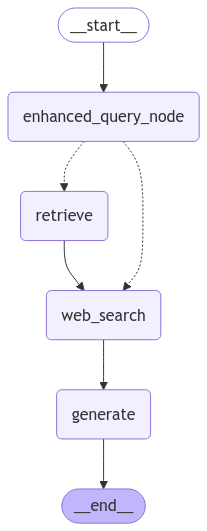
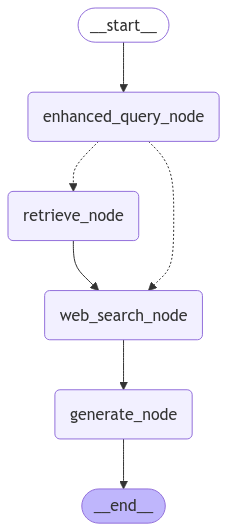
refactor(graph): rename query constants for clarity and update node definitions

diff --git a/app/graph/graph.py b/app/graph/graph.py
@@ -1,13 +1,13 @@
 import sqlite3
 from dotenv import load_dotenv, find_dotenv
-from langgraph.graph import END, StateGraph
+from langgraph.graph import END, START, StateGraph
 from langgraph.checkpoint.sqlite import SqliteSaver
 from app.graph.state import GraphState
 from app.graph.consts import (
-    ENHANCED_QUERY,
-    RETRIEVE,
-    WEB_SEARCH,
-    GENERATE,
+    ENHANCED_QUERY_NODE,
+    RETRIEVE_NODE,
+    WEB_SEARCH_NODE,
+    GENERATE_NODE,
 )
 from app.graph.nodes import (
     generate_enhanced_query_node,
@@ -32,40 +32,34 @@ def route_question(state: GraphState) -> str:
         {"question": state.enhanced_query, "chat_history": state.chat_history}
     )
     if source.datasource == "web_search":
-        return WEB_SEARCH
+        return WEB_SEARCH_NODE
     else:
-        return RETRIEVE
+        return RETRIEVE_NODE
 
 
 # Create the workflow without the SQLite connection
 workflow = StateGraph(GraphState)
 
 # Node Definition
-workflow.add_node(ENHANCED_QUERY, generate_enhanced_query_node)
-workflow.add_node(RETRIEVE, retrieve_documents_node)
-workflow.add_node(WEB_SEARCH, web_search_node)
-workflow.add_node(GENERATE, generate_node)
+workflow.add_node(ENHANCED_QUERY_NODE, generate_enhanced_query_node)
+workflow.add_node(RETRIEVE_NODE, retrieve_documents_node)
+workflow.add_node(WEB_SEARCH_NODE, web_search_node)
+workflow.add_node(GENERATE_NODE, generate_node)
 
 # Graph flow
-workflow.set_entry_point(ENHANCED_QUERY)
+workflow.set_entry_point(ENHANCED_QUERY_NODE)
 workflow.add_conditional_edges(
-    ENHANCED_QUERY,
+    ENHANCED_QUERY_NODE,
     route_question,
-    path_map={WEB_SEARCH: WEB_SEARCH, RETRIEVE: RETRIEVE},
+    path_map={WEB_SEARCH_NODE: WEB_SEARCH_NODE, RETRIEVE_NODE: RETRIEVE_NODE},
 )
-workflow.add_edge(RETRIEVE, WEB_SEARCH)
-workflow.add_edge(WEB_SEARCH, GENERATE)
-workflow.add_edge(GENERATE, END)
+workflow.add_edge(RETRIEVE_NODE, WEB_SEARCH_NODE)
+workflow.add_edge(WEB_SEARCH_NODE, GENERATE_NODE)
+workflow.add_edge(GENERATE_NODE, END)
 
 
-# Create a function to get a new graph instance with its own SQLite connection
-def get_graph_instance():
-    conn = sqlite3.connect("checkpoints.sqlite", check_same_thread=False)
-    memory = SqliteSaver(conn)
-    memory.setup()
-    graph = workflow.compile(checkpointer=memory)
-    return graph
-
-
-graph = get_graph_instance()
+conn = sqlite3.connect("checkpoints.sqlite", check_same_thread=False)
+memory = SqliteSaver(conn)
+memory.setup()
+graph = workflow.compile(checkpointer=memory)
 save_graph_visualization(graph)

diff --git a/app/graph/state.py b/app/graph/state.py
@@ -1,5 +1,5 @@
 import operator
-from typing import Any, List, Annotated, Sequence, Union
+from typing import Any, List, Annotated, Sequence, Union, Dict
 
 from langchain_core.messages import HumanMessage, AIMessage
 from pydantic import BaseModel, Field
@@ -14,6 +14,7 @@ class GraphState(BaseModel):
         documents: list of documents
         chat_history: list of chat messages
         generation: response to the question
+        execution_times: Dictionary to store execution times of each node.
     """
 
     question: str = Field(description="Question to be answered")
@@ -23,3 +24,4 @@ class GraphState(BaseModel):
         Field(default_factory=list)
     )
     generation: str = Field(default="")
+    execution_times: Dict[str, float] = Field(default_factory=dict)

diff --git a/app/graph/utils/time.py b/app/graph/utils/time.py
@@ -1,0 +1,24 @@
+import time
+from typing import Callable, Any
+import logging
+
+# Setup logging
+logging.basicConfig(
+    level=logging.INFO, format="%(asctime)s - %(levelname)s - %(message)s"
+)
+
+
+def time_it(func: Callable) -> Callable:
+    """Decorator to measure and log the execution time of a function."""
+
+    def wrapper(*args: Any, **kwargs: Any) -> Any:
+        start_time = time.time()
+        result = func(*args, **kwargs)
+        end_time = time.time()
+        execution_time = end_time - start_time
+        logging.info(f"Function '{func.__name__}' took {execution_time:.4f} seconds")
+        if isinstance(result, dict):
+            result["execution_time"] = {func.__name__: execution_time}
+        return result
+
+    return wrapper

diff --git a/app/graph/nodes/generate_enhanced_query_node.py b/app/graph/nodes/generate_enhanced_query_node.py
@@ -2,6 +2,7 @@ from langchain.prompts import ChatPromptTemplate
 from langchain_openai import ChatOpenAI
 from langchain_core.output_parsers import StrOutputParser
 from app.graph.state import GraphState
+from app.graph.utils.time import time_it
 
 template = """You are a query enhancement system. Your role is to analyze the user's question and chat history to create a more comprehensive search query, but only if necessary.
 
@@ -40,6 +41,7 @@ generate_enhanced_query = (
 )
 
 
+@time_it
 def generate_enhanced_query_node(state: GraphState) -> GraphState:
     """Node for generating an enhanced query from question and chat history"""
     enhanced_query = generate_enhanced_query.invoke(

diff --git a/app/graph/nodes/web_search_node.py b/app/graph/nodes/web_search_node.py
@@ -4,12 +4,14 @@ from langchain.schema import Document
 from langchain_community.tools.tavily_search.tool import TavilySearchResults
 
 from app.graph.state import GraphState
+from app.graph.utils.time import time_it
 
 
 _ = load_dotenv(find_dotenv())
 web_search_tool = TavilySearchResults(max_results=3)
 
 
+@time_it
 def web_search_node(state: GraphState) -> Dict[str, Any]:
     tavily_results = web_search_tool.invoke({"query": state.enhanced_query})
     web_results = [

diff --git a/app/graph/nodes/retrieve_documents_node.py b/app/graph/nodes/retrieve_documents_node.py
@@ -1,9 +1,10 @@
-# retrieval_node.py
 from app.graph.nodes.generate_enhanced_query_node import generate_enhanced_query_node
 from app.graph.state import GraphState
+from app.graph.utils.time import time_it
 from app.ingestion import retriever
 
 
+@time_it
 def retrieve_documents_node(state: GraphState) -> GraphState:
     """Node for retrieving documents using the enhanced query"""
     new_docs = retriever.invoke(state.enhanced_query)

diff --git a/app/graph/nodes/generate_node.py b/app/graph/nodes/generate_node.py
@@ -3,8 +3,10 @@ from typing import Any, Dict
 from langchain.schema import AIMessage, HumanMessage
 from app.graph.chains.generation_chain import generation_chain
 from app.graph.state import GraphState
+from app.graph.utils.time import time_it
 
 
+@time_it
 def generate_node(state: GraphState) -> Dict[str, Any]:
     generation = generation_chain.invoke(
         {

diff --git a/app/graph/consts.py b/app/graph/consts.py
@@ -1,5 +1,5 @@
 INDEX_NAME = "langchain-doc-index-unstructured"
-ENHANCED_QUERY = "enhanced_query"
-RETRIEVE = "retrieve"
-WEB_SEARCH = "web_search"
-GENERATE = "generate"
+ENHANCED_QUERY_NODE = "enhanced_query_node"
+RETRIEVE_NODE = "retrieve_node"
+WEB_SEARCH_NODE = "web_search_node"
+GENERATE_NODE = "generate_node"
